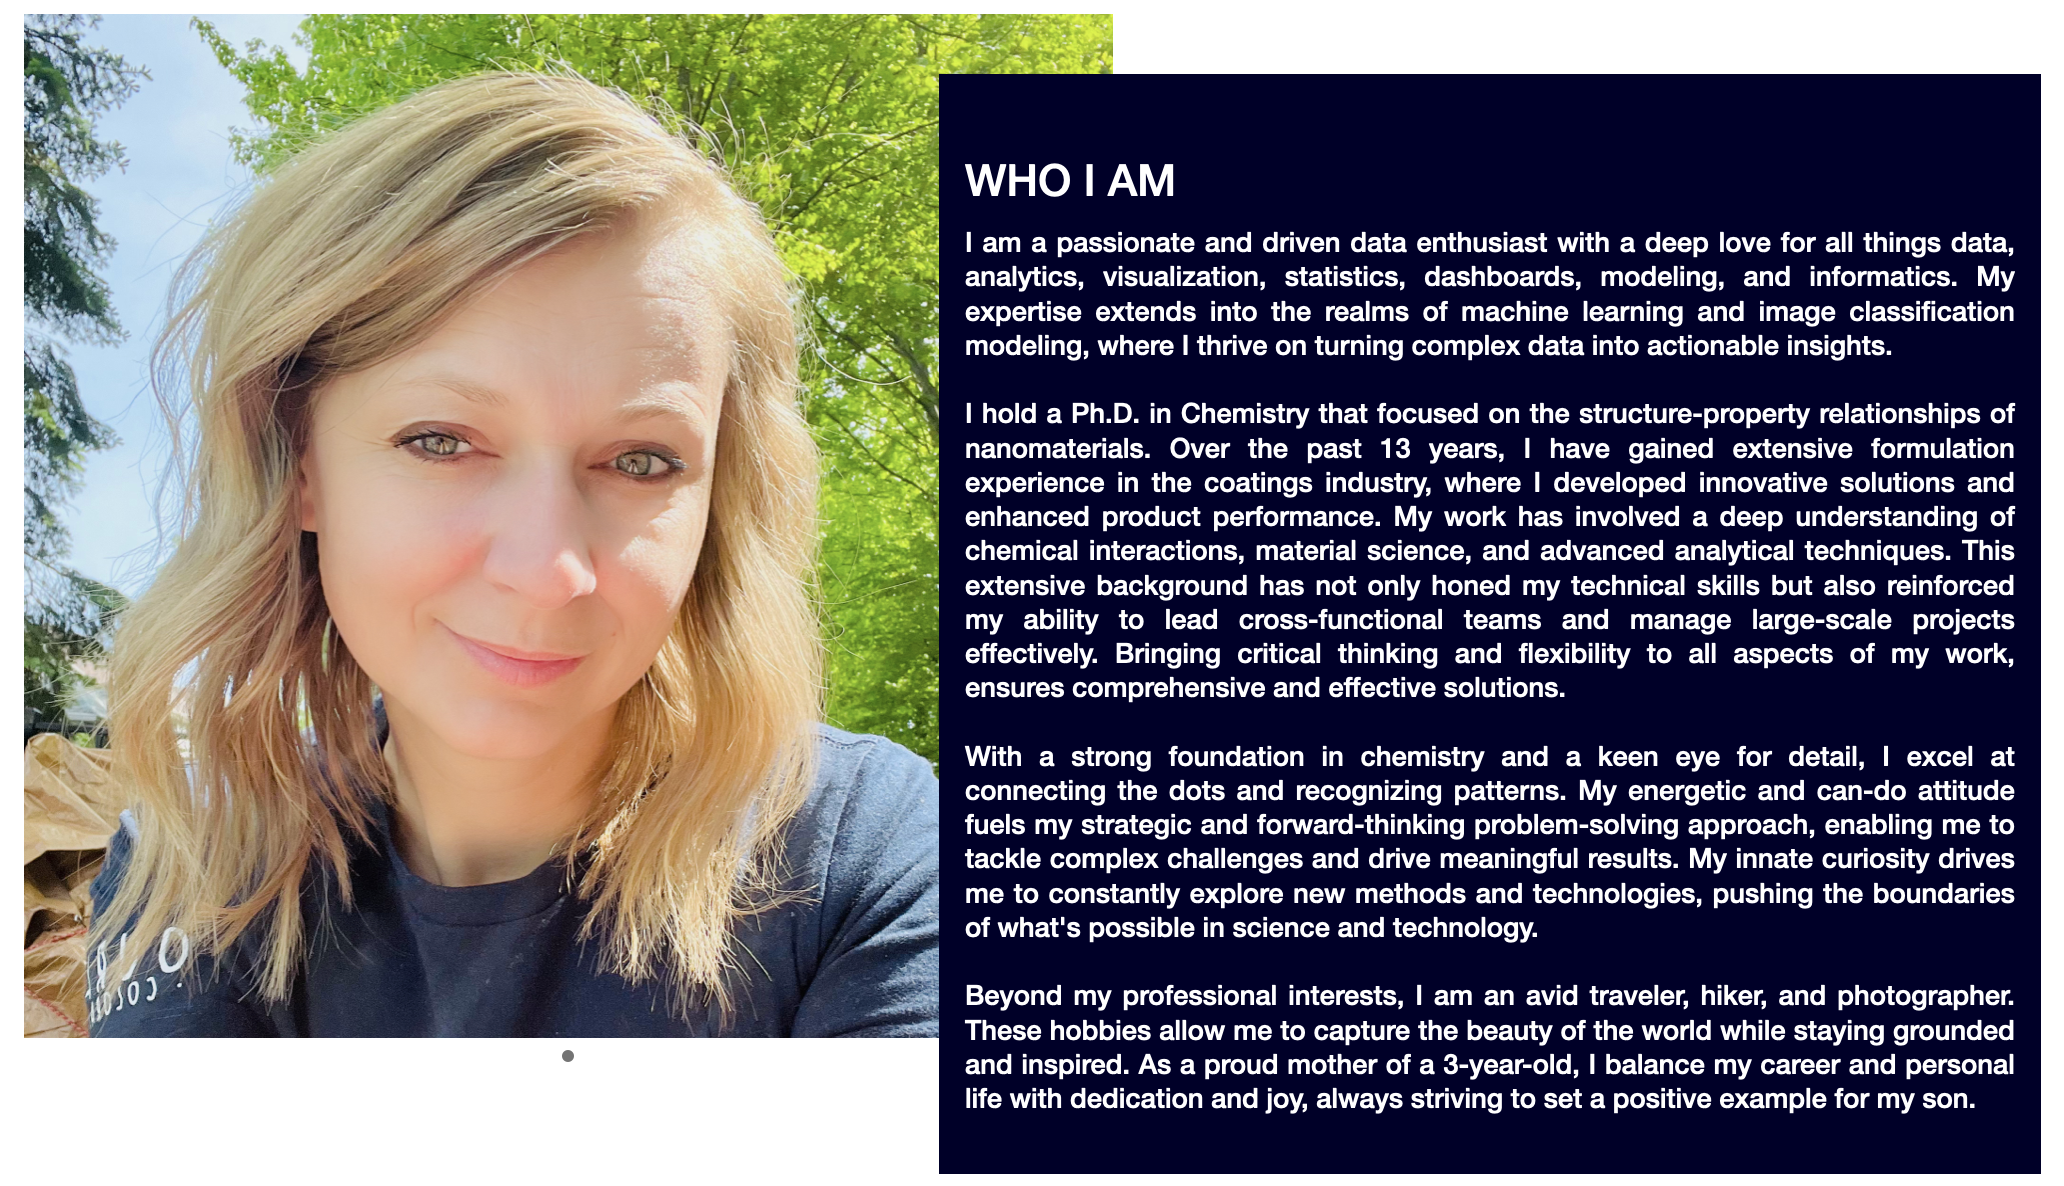
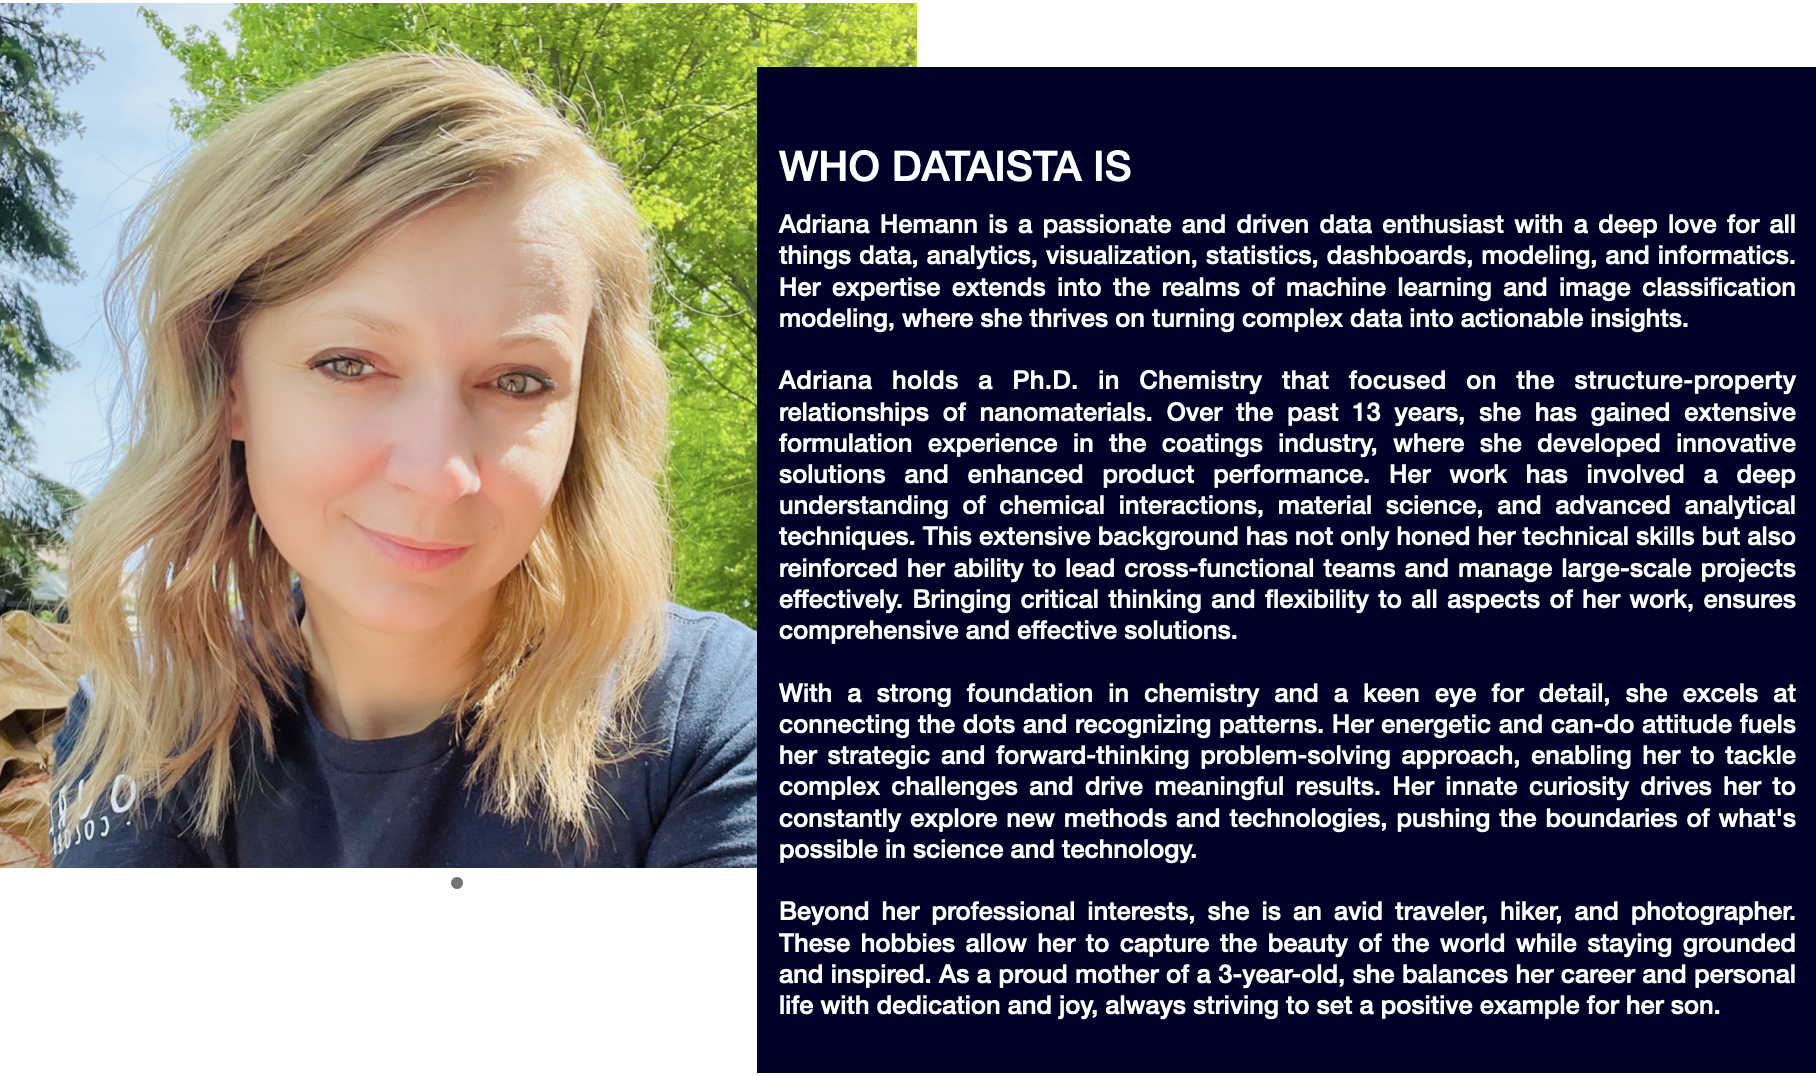
Deployed efca7b1 with MkDocs version: 1.5.3

diff --git a/services/index.html b/services/index.html
@@ -435,7 +435,7 @@
 <br/>
 <br/>
 <br/>
-Specializing in several technologies/platforms such as Python, R, Markdown, Tableau, and Microsoft,<span style="color:navy"> <strong> Dataista </strong> </span>  can help you use your data to make better decisions and run your operations more effectively. Whether you rely on my expertise in chemistry, nanomaterials, structure-property relationships, and formulation, or bring your own domain knowledge, combining it with Dataista's advanced data science skills while considering your existing processes and tools, we will develop tailored solutions to meet your unique data needs.</p>
+Specializing in several technologies/platforms such as Python, R, Markdown, Tableau, and Microsoft,<span style="color:navy"> <strong> Dataista </strong> </span>  can help you use your data to make better decisions and run your operations more effectively. Whether you rely on Dataista expertise in chemistry, nanomaterials, structure-property relationships, and formulation, or bring your own domain knowledge, combining it with Dataista's advanced data science skills while considering your existing processes and tools, we will develop tailored solutions to meet your unique data needs.</p>
 <p><br clear="left"/></p>
 <h1 id="featured-services">Featured Services</h1>
 <!-- ![image](assets/services.png){: .center} -->
@@ -445,7 +445,7 @@ Specializing in several technologies/platforms such as Python, R, Markdown, Tabl
 <li>
 <p><span class="twemoji lg middle"><svg xmlns="http://www.w3.org/2000/svg" viewBox="0 0 24 24"><path d="M21 8c-1.5 0-2.3 1.4-1.9 2.5l-3.6 3.6c-.3-.1-.7-.1-1 0l-2.6-2.6c.4-1.1-.4-2.5-1.9-2.5-1.4 0-2.3 1.4-1.9 2.5L3.5 16c-1.1-.3-2.5.5-2.5 2 0 1.1.9 2 2 2 1.4 0 2.3-1.4 1.9-2.5l4.5-4.6c.3.1.7.1 1 0l2.6 2.6c-.3 1 .5 2.5 2 2.5s2.3-1.4 1.9-2.5l3.6-3.6c1.1.3 2.5-.5 2.5-1.9 0-1.1-.9-2-2-2m-6 1 .9-2.1L18 6l-2.1-.9L15 3l-.9 2.1L12 6l2.1.9L15 9M3.5 11 4 9l2-.5L4 8l-.5-2L3 8l-2 .5L3 9l.5 2Z"/></svg></span> <strong>data analytics</strong></p>
 <hr />
-<p style="text-align: justify">Unlock the full potential of your data with my comprehensive data analytics services. I can help you turn raw data into actionable insights, empowering you to make data-driven decisions that drive growth and efficiency. I offer:</p>
+<p style="text-align: justify">Unlock the full potential of your data with Dataista's comprehensive data analytics services. Dataista can help you turn raw data into actionable insights, empowering you to make data-driven decisions that drive growth and efficiency. Dataista offers:</p>
 <ul>
 <li>Data connection and cleaning</li>
 <li>Descriptive and inferential statistics</li>
@@ -457,7 +457,7 @@ Specializing in several technologies/platforms such as Python, R, Markdown, Tabl
 <li>
 <p><span class="twemoji lg middle"><svg xmlns="http://www.w3.org/2000/svg" viewBox="0 0 24 24"><path d="M20 16V4H8v12m14 0c0 1.1-.9 2-2 2H8c-1.1 0-2-.9-2-2V4c0-1.1.9-2 2-2h12c1.1 0 2 .9 2 2m-6 16v2H4c-1.1 0-2-.9-2-2V7h2v13m12-9h2v3h-2m-3-8h2v8h-2m-3-6h2v6h-2Z"/></svg></span> <strong>data visualization</strong></p>
 <hr />
-<p style="text-align: justify">Transform complex data into visually compelling stories that are easy to understand and act upon. My data visualization services ensure that your data is presented in a clear, concise, and impactful manner. I offer:</p>
+<p style="text-align: justify">Transform complex data into visually compelling stories that are easy to understand and act upon. Dataista's data visualization services ensure that your data is presented in a clear, concise, and impactful manner. Dataista offers:</p>
 <ul>
 <li>Interactive dashboards</li>
 <li>Infographics</li>
@@ -469,7 +469,7 @@ Specializing in several technologies/platforms such as Python, R, Markdown, Tabl
 <li>
 <p><span class="twemoji lg middle"><svg xmlns="http://www.w3.org/2000/svg" viewBox="0 0 24 24"><path d="M21 16V4H3v12h18m0-14a2 2 0 0 1 2 2v12a2 2 0 0 1-2 2h-7v2h2v2H8v-2h2v-2H3a2 2 0 0 1-2-2V4c0-1.11.89-2 2-2h18M5 6h9v5H5V6m10 0h4v2h-4V6m4 3v5h-4V9h4M5 12h4v2H5v-2m5 0h4v2h-4v-2Z"/></svg></span> <strong>dashboards</strong></p>
 <hr />
-<p style="text-align: justify">Stay on top of your business metrics with our intuitive and dynamic dashboards. Designed to provide real-time insights, my dashboards help you monitor performance, identify trends, and make informed decisions quickly. My offerings include:</p>
+<p style="text-align: justify">Stay on top of your business metrics with our intuitive and dynamic dashboards. Designed to provide real-time insights, Dataista's dashboards help you monitor performance, identify trends, and make informed decisions quickly. Dataista's offerings include:</p>
 <ul>
 <li>Executive dashboards</li>
 <li>Operational dashboards</li>
@@ -481,7 +481,7 @@ Specializing in several technologies/platforms such as Python, R, Markdown, Tabl
 <li>
 <p><span class="twemoji lg middle"><svg xmlns="http://www.w3.org/2000/svg" viewBox="0 0 24 24"><path d="M21 16v-3c0-1.11-.89-2-2-2h-6V8h2V2H9v6h2v3H5c-1.11 0-2 .89-2 2v3H1v6h6v-6H5v-3h6v3H9v6h6v-6h-2v-3h6v3h-2v6h6v-6h-2M11 4h2v2h-2V4M5 20H3v-2h2v2m8 0h-2v-2h2v2m8 0h-2v-2h2v2Z"/></svg></span> <strong>data science</strong></p>
 <hr />
-<p style="text-align: justify">Leverage the power of data science to gain a competitive edge. My data science services encompass advanced analytical techniques and tools to uncover hidden patterns and insights. I specialize in:</p>
+<p style="text-align: justify">Leverage the power of data science to gain a competitive edge. Dataista's data science services encompass advanced analytical techniques and tools to uncover hidden patterns and insights. Dataista specializes in:</p>
 <ul>
 <li>Feature generation</li>
 <li>Predictive analytics</li>
@@ -493,7 +493,7 @@ Specializing in several technologies/platforms such as Python, R, Markdown, Tabl
 <li>
 <p><span class="twemoji lg middle"><svg xmlns="http://www.w3.org/2000/svg" viewBox="0 0 24 24"><path d="M19.5 17c-.14 0-.26 0-.39.04L17.5 13.8c.45-.45.75-1.09.75-1.8a2.5 2.5 0 0 0-2.5-2.5c-.14 0-.25 0-.4.04L13.74 6.3c.47-.46.76-1.09.76-1.8a2.5 2.5 0 0 0-5 0c0 .7.29 1.34.76 1.79L8.65 9.54c-.15-.04-.26-.04-.4-.04a2.5 2.5 0 0 0-2.5 2.5c0 .71.29 1.34.75 1.79l-1.61 3.25C4.76 17 4.64 17 4.5 17a2.5 2.5 0 0 0 0 5A2.5 2.5 0 0 0 7 19.5c0-.7-.29-1.34-.76-1.79l1.62-3.25c.14.04.26.04.39.04s.25 0 .38-.04l1.63 3.25c-.47.45-.76 1.09-.76 1.79a2.5 2.5 0 0 0 5 0A2.5 2.5 0 0 0 12 17c-.13 0-.26 0-.39.04L10 13.8c.45-.45.75-1.09.75-1.8 0-.7-.29-1.33-.75-1.79l1.61-3.25c.13.04.26.04.39.04s.26 0 .39-.04L14 10.21a2.5 2.5 0 0 0 1.75 4.29c.13 0 .25 0 .38-.04l1.63 3.25c-.47.45-.76 1.09-.76 1.79a2.5 2.5 0 0 0 5 0 2.5 2.5 0 0 0-2.5-2.5m-15 3.5c-.55 0-1-.45-1-1s.45-1 1-1 1 .45 1 1-.45 1-1 1m8.5-1c0 .55-.45 1-1 1s-1-.45-1-1 .45-1 1-1 1 .45 1 1M7.25 12c0-.55.45-1 1-1s1 .45 1 1-.45 1-1 1-1-.45-1-1M11 4.5c0-.55.45-1 1-1s1 .45 1 1-.45 1-1 1-1-.45-1-1m3.75 7.5c0-.55.45-1 1-1s1 .45 1 1-.45 1-1 1-1-.45-1-1m4.75 8.5c-.55 0-1-.45-1-1s.45-1 1-1 1 .45 1 1-.45 1-1 1Z"/></svg></span> <strong>machine learning</strong></p>
 <hr />
-<p style="text-align: justify">Harness the power of machine learning to automate processes, predict outcomes, and drive innovation. My machine learning services are designed to help you build and deploy scalable ML models tailored to your business needs. Services include:</p>
+<p style="text-align: justify">Harness the power of machine learning to automate processes, predict outcomes, and drive innovation. Dataista's machine learning services are designed to help you build and deploy scalable ML models tailored to your business needs. Services include:</p>
 <ul>
 <li>Model development and training</li>
 <li>Algorithm selection and tuning</li>
@@ -505,7 +505,7 @@ Specializing in several technologies/platforms such as Python, R, Markdown, Tabl
 <li>
 <p><span class="twemoji lg middle"><svg xmlns="http://www.w3.org/2000/svg" viewBox="0 0 24 24"><path d="M22 5H4V2H2v20h20v-2H4V9c4.09 0 6.13 2 8.29 4.21S17.09 18 22 18v-2c-4.09 0-6.13-2-8.29-4.21S8.91 7 4 7h18Z"/></svg></span> <strong>predictive and prescriptive modeling</strong></p>
 <hr />
-<p style="text-align: justify">Stay ahead of the curve with our predictive and prescriptive modeling services. I can help you use advanced algorithms to forecast future trends and prescribe optimal actions. My expertise includes:</p>
+<p style="text-align: justify">Stay ahead of the curve with our predictive and prescriptive modeling services. Dataista can help you use advanced algorithms to forecast future trends and prescribe optimal actions. Dataista's expertise includes:</p>
 <ul>
 <li>Time series forecasting</li>
 <li>Risk assessment models</li>
@@ -517,7 +517,7 @@ Specializing in several technologies/platforms such as Python, R, Markdown, Tabl
 <li>
 <p><span class="twemoji lg middle"><svg xmlns="http://www.w3.org/2000/svg" viewBox="0 0 24 24"><path d="M20 2H4c-1.1 0-2 .9-2 2v12a2 2 0 0 0 2 2h4l4 4 4-4h4c1.11 0 2-.89 2-2V4a2 2 0 0 0-2-2m0 14h-4.83L12 19.17 8.83 16H4V4h16v12m-9.25-2.29-3.5-3.5 1.41-1.42 2.09 2.09 4.59-4.58 1.41 1.41-6 6Z"/></svg></span> <strong>digital adoption</strong></p>
 <hr />
-<p style="text-align: justify">Accelerate your digital transformation journey with our digital adoption services. I can help you integrate new technologies seamlessly into your business operations, ensuring maximum efficiency and minimal disruption. My services cover:</p>
+<p style="text-align: justify">Accelerate your digital transformation journey with our digital adoption services. Dataista can help you integrate new technologies seamlessly into your business operations, ensuring maximum efficiency and minimal disruption. Dataista's services cover:</p>
 <ul>
 <li>Technology implementation</li>
 <li>User training and support</li>
@@ -529,7 +529,7 @@ Specializing in several technologies/platforms such as Python, R, Markdown, Tabl
 <li>
 <p><span class="twemoji lg middle"><svg xmlns="http://www.w3.org/2000/svg" viewBox="0 0 24 24"><path d="M16.5 12c0-.68-.06-1.34-.14-2h3.38c.16.64.26 1.31.26 2 0 .37-.03.73-.08 1.08.69.1 1.33.32 1.92.64.1-.56.16-1.13.16-1.72 0-5.5-4.5-10-10-10C6.47 2 2 6.5 2 12s4.5 10 10 10c.59 0 1.16-.06 1.72-.16A5.9 5.9 0 0 1 13 19c0-.29.03-.57.07-.85-.32.63-.67 1.24-1.07 1.81-.83-1.2-1.5-2.53-1.91-3.96h3.72a5.95 5.95 0 0 1 2.59-2.4c.06-.53.1-1.06.1-1.6M12 4.03c.83 1.2 1.5 2.54 1.91 3.97h-3.82c.41-1.43 1.08-2.77 1.91-3.97M4.26 14C4.1 13.36 4 12.69 4 12s.1-1.36.26-2h3.38c-.08.66-.14 1.32-.14 2s.06 1.34.14 2H4.26m.82 2H8c.35 1.25.8 2.45 1.4 3.56A8.008 8.008 0 0 1 5.08 16M8 8H5.08A7.923 7.923 0 0 1 9.4 4.44C8.8 5.55 8.35 6.75 8 8m6.34 6H9.66c-.1-.66-.16-1.32-.16-2s.06-1.35.16-2h4.68c.09.65.16 1.32.16 2s-.07 1.34-.16 2m.25-9.56c1.84.63 3.37 1.9 4.33 3.56h-2.95a15.65 15.65 0 0 0-1.38-3.56M23 18v2h-3v3h-2v-3h-3v-2h3v-3h2v3h3Z"/></svg></span> <strong>website design or webapps</strong></p>
 <hr />
-<p style="text-align: justify">Enhance your online presence with a professional, user-friendly static website or interactive webapp. My design services ensure your documentation is informative, visually appealing, and easy to navigate. Need data interaction for employees/customers? My webapp services can help. I specialize in:</p>
+<p style="text-align: justify">Enhance your online presence with a professional, user-friendly static website or interactive webapp. Dataista's design services ensure your documentation is informative, visually appealing, and easy to navigate. Need data interaction for employees/customers? Dataista's webapp services can help. Dataista specializes in:</p>
 <ul>
 <li>Intuitive navigation</li>
 <li>Visually stunning designs</li>
@@ -540,7 +540,7 @@ Specializing in several technologies/platforms such as Python, R, Markdown, Tabl
 <li>
 <p><span class="twemoji lg middle"><svg xmlns="http://www.w3.org/2000/svg" viewBox="0 0 24 24"><path d="M18 16h-.58l-.81-.81A7.07 7.07 0 0 0 18 11c0-3.87-3.13-7-7-7-1.5 0-3 .5-4.21 1.4-3.09 2.32-3.72 6.71-1.4 9.8 2.32 3.09 6.71 3.72 9.8 1.4l.81.81V18l5 5 2-2-5-5m-7 0c-2.76 0-5-2.24-5-5s2.24-5 5-5 5 2.24 5 5-2.24 5-5 5M3 6 1 8V1h7L6 3H3v3m18-5v7l-2-2V3h-3l-2-2h7M6 19l2 2H1v-7l2 2v3h3Z"/></svg></span> <strong>looking for something else?</strong></p>
 <hr />
-<p>Let’s talk! I am always looking to expand my portfolio and learn something new.
+<p>Let’s talk! Dataista is always looking to expand its portfolio and learn something new.
 <br/>
 <br/>
 <br/>

diff --git a/contactus/index.html b/contactus/index.html
@@ -85,7 +85,7 @@
     <div data-md-component="skip">
       
         
-        <a href="#how-can-i-help" class="md-skip">
+        <a href="#how-can-dataista-help" class="md-skip">
           Skip to content
         </a>
       
@@ -425,8 +425,8 @@
                   
 
 
-<h1 id="how-can-i-help">How can I help?</h1>
-<p>I am excited to explore ways I can partner with you. Please reach out to schedule a free 20 minute inquiry video call.</p>
+<h1 id="how-can-dataista-help">How can Dataista help?</h1>
+<p>Dataista is excited to explore ways it can partner with you. Please reach out to schedule a free 20 minute inquiry video call.</p>
 <p><a class="glightbox" href="../assets/contacts.png" data-type="image" data-width="auto" data-height="auto" data-desc-position="bottom"><img align="left" width="35" src="../assets/contacts.png"></a></p>
 <!-- ![Contact Us](assets/contacts.png "Contact Us") -->
 

diff --git a/about/index.html b/about/index.html
@@ -429,8 +429,8 @@
 
 <h1 id="a-bit-about-me">A bit about me</h1>
 <p><a class="glightbox" href="../assets/who.png" data-type="image" data-width="auto" data-height="auto" data-desc-position="bottom"><img align="left" src="../assets/who.png"></a></p>
-<h1 id="my-approach">My approach</h1>
-<p>When asked to describe my approach to solving problems in science and technology, I respond with four words: </p>
+<h1 id="the-dataista-approach">The Dataista approach</h1>
+<p>When asked to describe the Dataista approach to solving problems in science and technology, the response includes four words: </p>
 <h3 style="text-align: center;">VISIONARY THINKING. STRATEGIC TRANSFORMATION</h3>
 
 <!-- ### VISIONARY THINKING. STRATEGIC TRANSFORMATION -->

diff --git a/index.html b/index.html
@@ -54,7 +54,7 @@
         </p>
  <h3 style="padding-left: 5%;">Maximize Tool Utilization</h3>
     
-    <p style="padding-left: 5%; padding-right: 5%"> Data tools and processes are only as valuable as their usage. Even the most advanced tools are ineffective if unused. Let me help you drive adoption to ensure you get the most out of your data tools and processes.
+    <p style="padding-left: 5%; padding-right: 5%"> Data tools and processes are only as valuable as their usage. Even the most advanced tools are ineffective if unused. Let Dataista help you drive adoption to ensure you get the most out of your data tools and processes.
         </p>
 
 <div class="ShowOnMobile">
